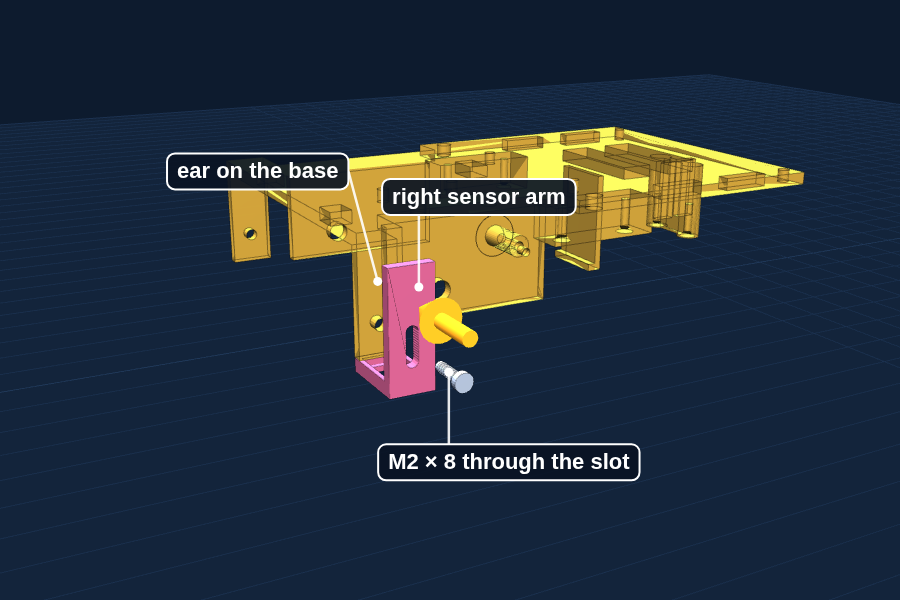
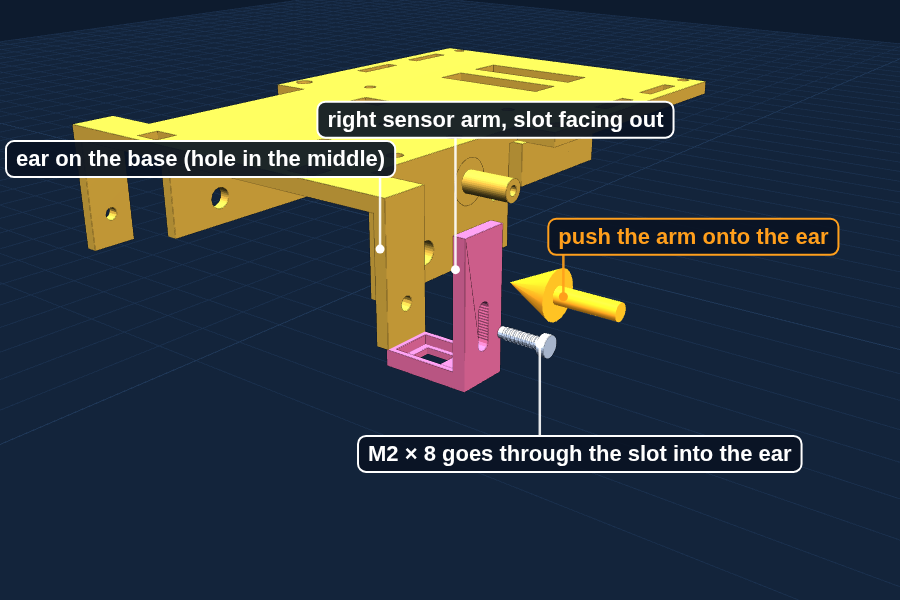
Build guide: sensor arm test-fit picture viewed from the front right, opaque base, clearer labels
Claude-Session: https://claude.ai/code/session_01JQFXKBYC8adXR1byZe1UHB

Changed region(s): [[0.0, 0.0, 0.9333, 0.81], [0.9644, 0.09, 1.0, 0.12]]

diff --git a/tools/dusty-howto/make_scenes.py b/tools/dusty-howto/make_scenes.py
@@ -313,11 +313,11 @@ scene('b3-s2', [mesh(slv, COL['sleeve']), mesh(moved(bank, [-110, 0, 0]), '#8394
 # Batch 3 step 3: test-fit a sensor arm on its ear
 carR = PR['carrier_R']
 scr = screw(8, [42.5, -3.0, 13.0], [-1, 0, 0])
-scene('b3-s3', [mesh(B, COL['base'], 0.95), mesh(moved(carR, [12, 0, 0]), COL['carrier_R']), mesh(moved(scr, [26, 0, 0]), STEEL)],
-      arrows=[A([80, -3, 22], [60, -3, 22])],
-      labels=[L([41.2, -3, 22], 'ear on the base', -120, -110), L([60, -3, 26], 'right sensor arm', 60, -90),
-              L([72, -3, 13], 'M2 × 8 through the slot', 60, 90)],
-      az=62, el=18, zoom=1.5, focus=[48, 10, 18])
+scene('b3-s3', [mesh(B, COL['base']), mesh(moved(carR, [14, 0, 0]), COL['carrier_R']), mesh(moved(scr, [20, 0, 0]), STEEL)],
+      arrows=[A([84, -3, 22], [64, -3, 22])],
+      labels=[L([41.2, -8, 24], 'ear on the base (hole in the middle)', -200, -90), L([57, -8, 24], 'right sensor arm, slot facing out', 40, -150),
+              L([70, -3, 13], 'M2 × 8 goes through the slot into the ear', 40, 110), L([74, -3, 22], 'push the arm onto the ear', 130, -60, ORANGE)],
+      az=38, el=22, zoom=1.8, focus=[52, -3, 16])
 
 # Batch 4 step 1: clean teeth
 gs = [('pinion', load_stl('pinion'), [-30, 0, 0]), ('compound', load_stl('compound_gear'), [0, 0, 0]),
